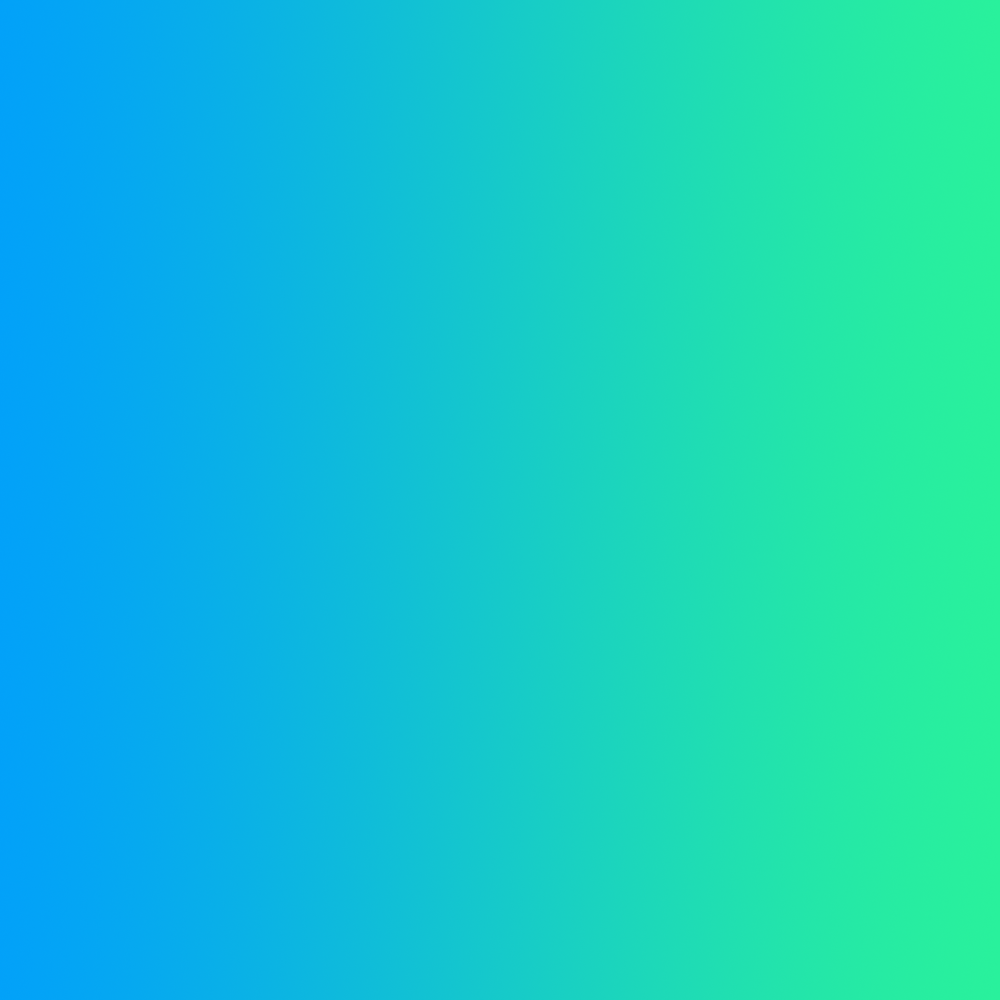
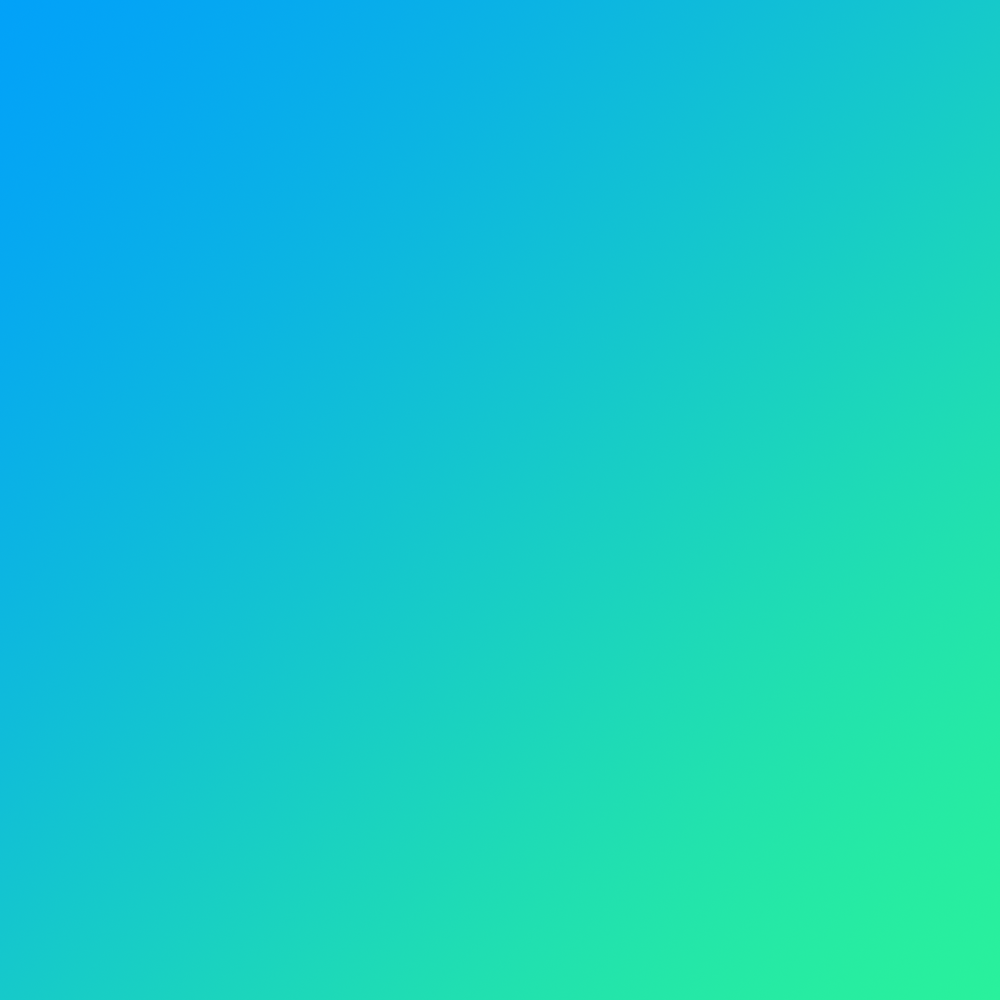
removed background.png and renamed background2 to background

Changed region(s): [[0.0, 0.589, 0.558, 1.0], [0.434, 0.0, 1.0, 0.403]]

diff --git a/popup/popup.css b/popup/popup.css
@@ -16,7 +16,7 @@
 }
 html {
     width: 400px;
-    background-image: url('../imgs/background2.png');
+    background-image: url('../imgs/background.png');
     background-size: 100% 100%;
 }
 button, select, input[type="button"] {
